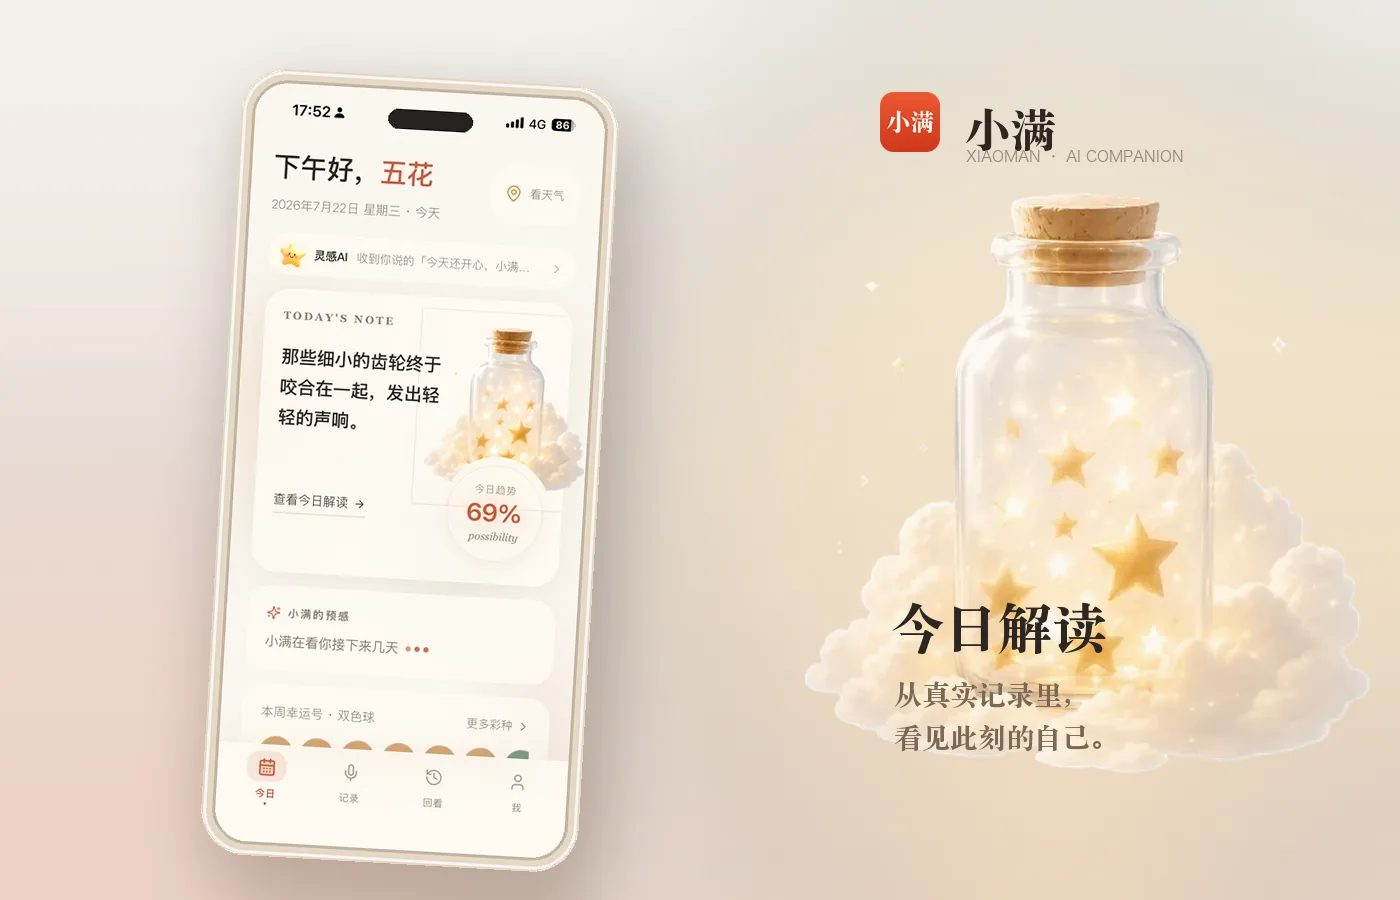
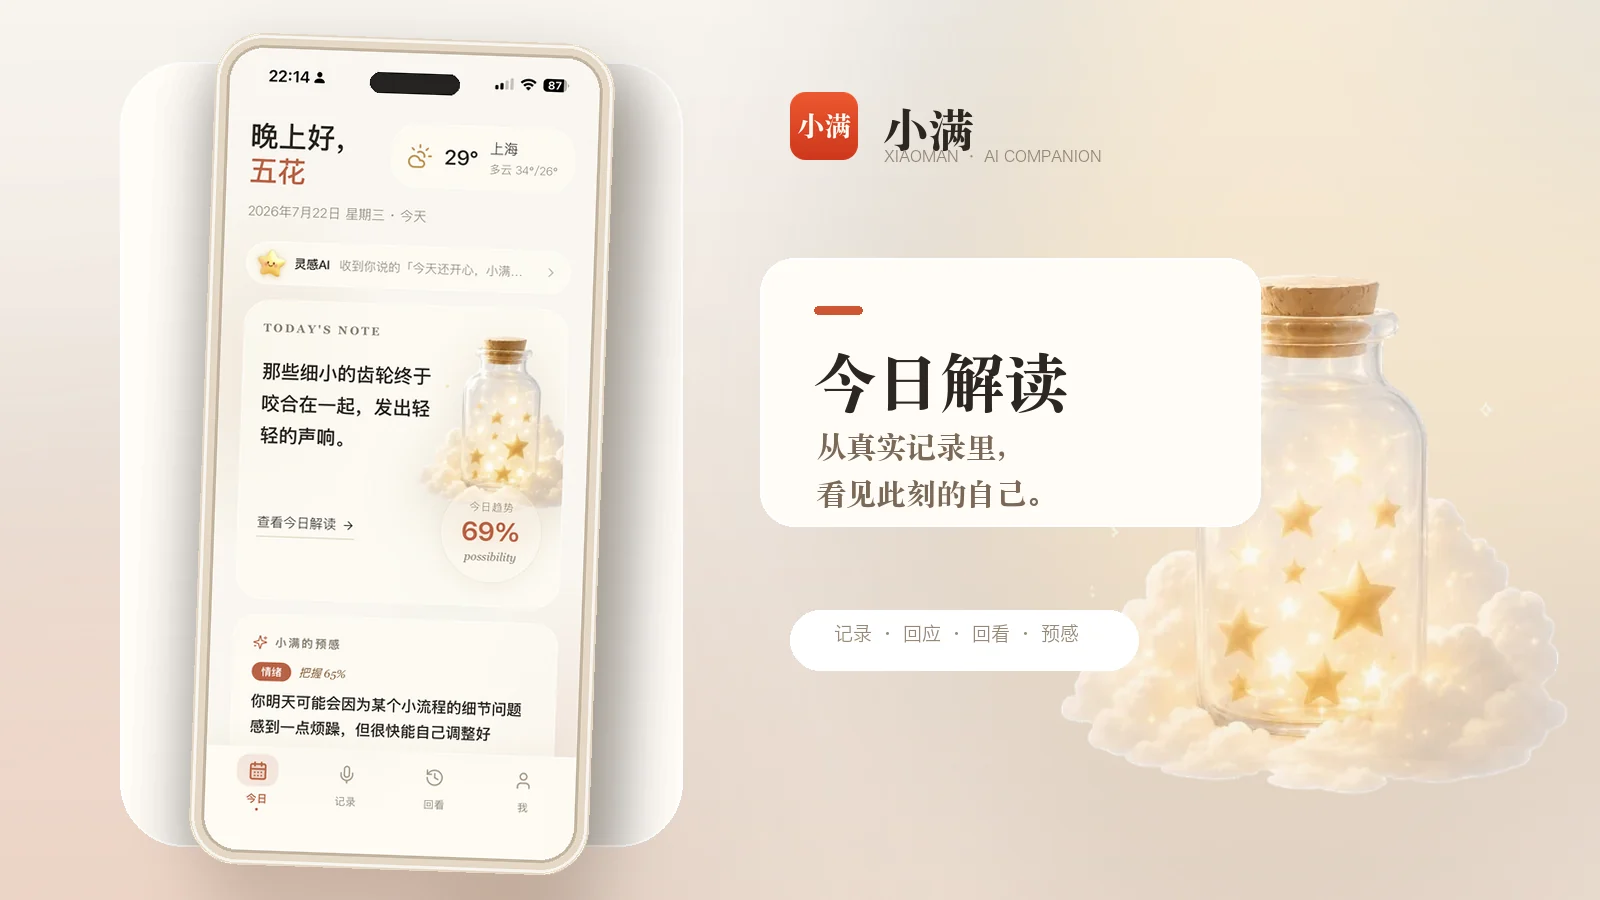
docs: simplify README hero

diff --git a/README.md b/README.md
@@ -15,7 +15,7 @@
 </p>
 
 <p align="center">
-  <img src="./public/images/readme/xiaoman-hero-home.webp" width="880" alt="小满当前线上界面主视觉" />
+  <img src="./public/images/readme/xiaoman-mockup-reading.webp" width="880" alt="小满今日解读与瓶中星光主视觉" />
 </p>
 
 ## 关于小满
@@ -40,32 +40,6 @@
 - **移动端优先**：适配手机浏览器，并支持添加到主屏幕；当前不提供离线访问。
 
 > 本功能仅生成娱乐性的每周幸运号码。号码由生日、用户标识和 ISO 周数经过确定性伪随机算法生成，不使用历史开奖数据，不构成彩票预测或投注建议，也不能提高中奖概率。请理性参与。
-
-## 界面预览
-
-### 把日常，慢慢记成你
-
-<p align="center">
-  <img src="./public/images/readme/xiaoman-mockup-record.webp" width="760" alt="小满当前线上界面的纸感记录 Mockup" />
-</p>
-
-### 从真实记录里，看见此刻
-
-<p align="center">
-  <img src="./public/images/readme/xiaoman-mockup-reading.webp" width="760" alt="小满今日解读与瓶中星光 Mockup" />
-</p>
-
-### 给普通的一周，添一点仪式感
-
-<p align="center">
-  <img src="./public/images/readme/xiaoman-mockup-lucky.webp" width="760" alt="小满娱乐性幸运号码 Mockup" />
-</p>
-
-### 记录、回应、回看与预感
-
-<p align="center">
-  <img src="./public/images/readme/xiaoman-mockup-companion.webp" width="760" alt="小满当前线上界面的珊瑚近景 Mockup" />
-</p>
 
 ## 在线体验
 